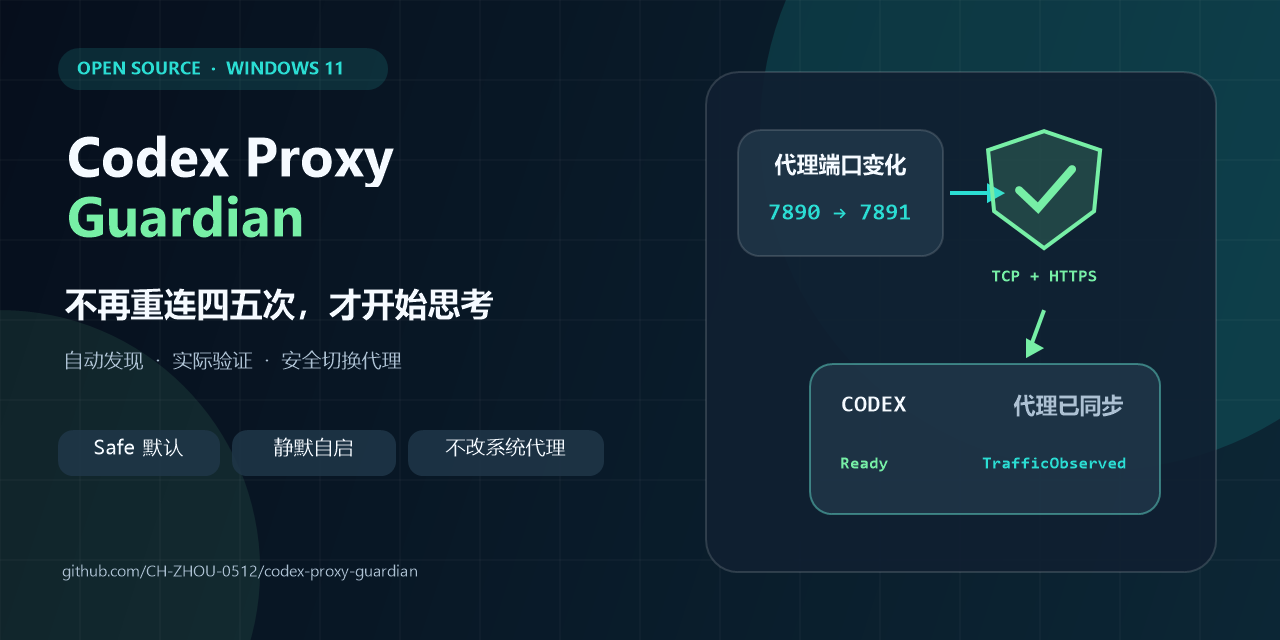
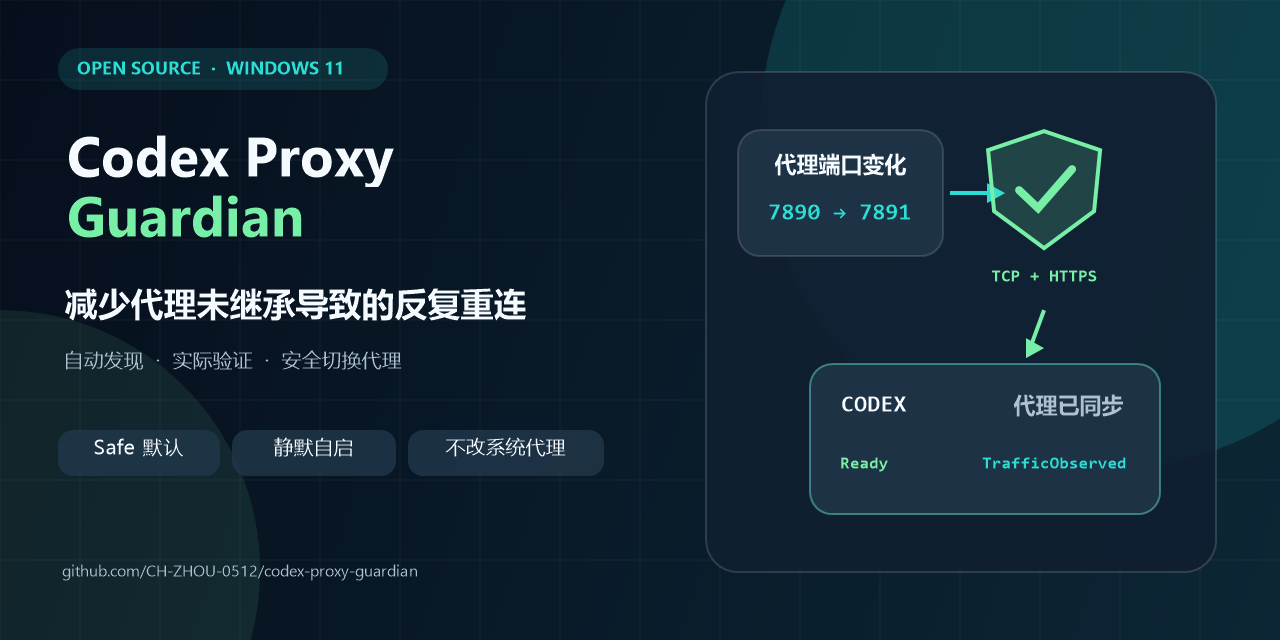
Explain reconnect attribution to users (#18)
Make reconnect attribution visible across product surfaces, diagnostics, issue reporting, and public documentation. Release preparation for v1.4.5.

Changed region(s): [[0.0312, 0.4375, 0.4375, 0.5]]

diff --git a/docs/README.en.md b/docs/README.en.md
@@ -4,7 +4,7 @@
 
 ![Codex Proxy Guardian social preview](../assets/social-preview.png)
 
-> **In one sentence:** If Codex often reconnects four or five times before it starts thinking because it did not pick up the working proxy, this tool is designed to fix that.
+> **In one sentence:** This tool reduces reconnects caused by Codex missing the working proxy or keeping a stale endpoint.
 
 An unofficial current-user watchdog that validates changing HTTP, HTTPS, or SOCKS5 proxies—and the effective routes selected by PAC/WPAD—against multiple OpenAI/ChatGPT targets before applying them to Codex.
 
@@ -22,6 +22,19 @@ The manual workaround is to find the current port, close Codex, set proxy enviro
 
 > [!NOTE]
 > This project is **not a proxy application and does not provide a proxy service or endpoints**. A working HTTP, HTTPS, or SOCKS5 endpoint—or PAC/WPAD that selects one for OpenAI targets—must already exist on the computer.
+
+> [!IMPORTANT]
+> **A Codex “Reconnecting” banner does not prove that Guardian restarted Codex.** Guardian manages proxy discovery, validation, and Codex launch configuration; it cannot repair packet loss, TLS EOF, WebSocket resets, Windows `10054`, or request timeouts inside a proxy-provider node. Compare the same timestamp with Guardian logs: `codex_restart` or `proxy_changed` indicates a possibly related lifecycle action; if neither event exists, the streaming connection normally failed upstream.
+
+## Attributing a reconnect
+
+| Evidence at the same timestamp | More likely cause | Next action |
+|---|---|---|
+| Guardian logged `codex_restart` or `proxy_changed` | Guardian performed a lifecycle action | Share a redacted Doctor report and timestamp in an Issue |
+| Neither event exists; Codex logged TLS EOF, WebSocket reset, `10054`, or timeout | The selected provider node or its upstream path dropped the stream | Select a healthier node in the proxy application |
+| `ProxyCriticalTargetsPassed=false` | The critical `chatgpt.com` entry point did not validate | Inspect `ProxyCriticalFailures` and the provider node |
+
+Guardian may try another discovered and validated endpoint or protocol. It never silently switches subscription nodes inside Clash/Mihomo/v2rayN, and it never changes system network settings.
 
 > [!IMPORTANT]
 > This is an independent community project. It is not affiliated with, endorsed by, or supported by OpenAI. The proxy behavior used here is a best-effort compatibility technique, not a documented Codex desktop API.

diff --git a/docs/releases/v1.4.5.md b/docs/releases/v1.4.5.md
@@ -1,0 +1,15 @@
+# Codex Proxy Guardian v1.4.5
+
+这次更新把“正在重新连接到底是谁造成的”从故障排查深处提升为产品级说明，避免 Guardian 为代理服务商节点自身的断流背锅，也避免向用户承诺无法控制的结果。
+
+## 先看证据，再归因
+
+Codex 的“正在重新连接”表示流式连接正在重试，并不能证明 Guardian 重启了应用。README 首页、Windows 设置界面、Status、Doctor、Issue 模板与 Wiki 现在统一要求按同一时间的证据判断：
+
+- Guardian 日志出现 `codex_restart` 或 `proxy_changed`：Guardian 生命周期操作可能相关；
+- 没有上述事件，但出现 TLS EOF、WebSocket reset、Windows `10054`、请求超时或代理软件上游 `i/o timeout`：更可能是当前代理服务商节点或其上游链路断流；
+- `ProxyCriticalTargetsPassed=false`：`chatgpt.com` 关键入口没有通过验证，应查看 `ProxyCriticalFailures` 并检查节点。
+
+## 承诺范围写得更准确
+
+项目首页与宣传图改为“减少因代理未继承或端点变化造成的重连”。Guardian 会发现、验证并为 Codex 采用可用代理，也会尝试其他已经发现的候选；但不会擅自切换 Clash、Mihomo、v2rayN 等代理软件里的订阅节点，不会修改系统网络设置，也无法修复服务商节点自身的丢包。

diff --git a/CHANGELOG.md b/CHANGELOG.md
@@ -4,6 +4,12 @@ All notable changes are documented here. This project follows semantic versionin
 
 ## [未发布 / Unreleased]
 
+## [1.4.5] - 2026-08-04
+
+- 在 README 首页、Windows 设置界面、Status、Doctor、Issue 模板与 Wiki 中统一说明：Codex 的“正在重新连接”是流式连接重试，不等于 Guardian 重启了应用；应按同一时间是否存在 `codex_restart` / `proxy_changed` 事件进行归因。
+- Status 与 Doctor 新增可分享的重连归因字段，列出 TLS EOF、WebSocket reset、Windows `10054` 与请求超时等常见上游信号，并明确代理服务商节点仍由用户的代理软件管理。
+- 收紧首页与宣传图中的表达，只承诺减少“代理未继承或端点变化”造成的重连，避免把代理服务商节点自身的丢包或超时错误归因给 Guardian。
+
 ## [1.4.4] - 2026-08-04
 
 - 修复 Settings 的“立即检查更新”把“另一个更新任务正在运行、本次并未检查”误报成“已经是最新版”的问题；结果现在明确显示本机版本、远端版本、通道、检查时间和 GitHub Release 来源，并按界面当前选中的通道实时检查。
